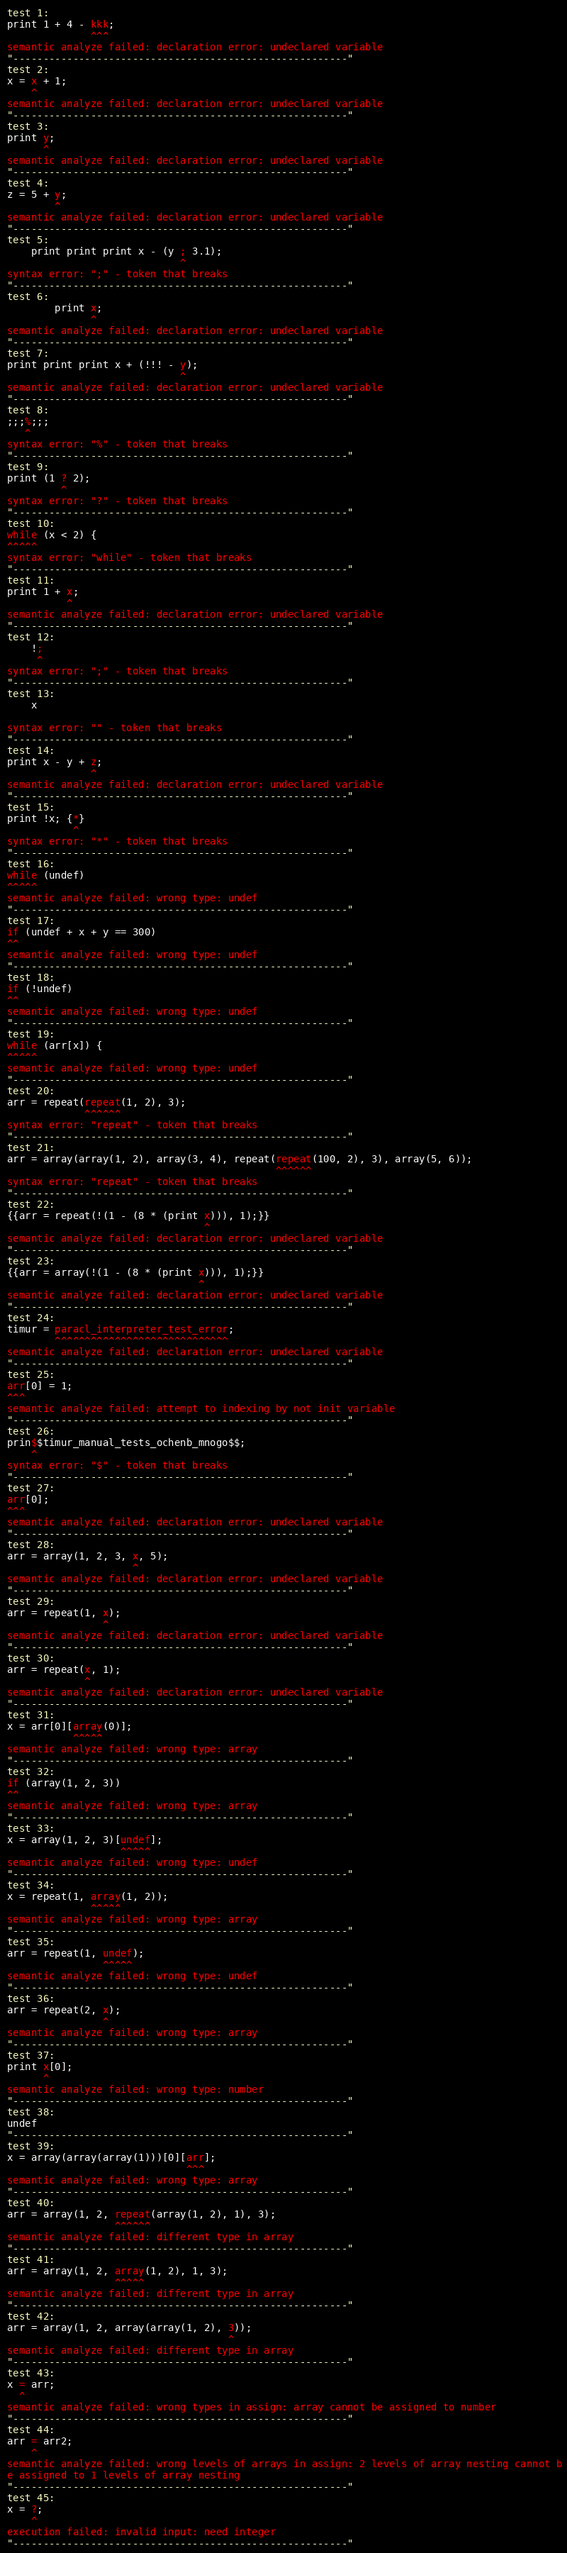
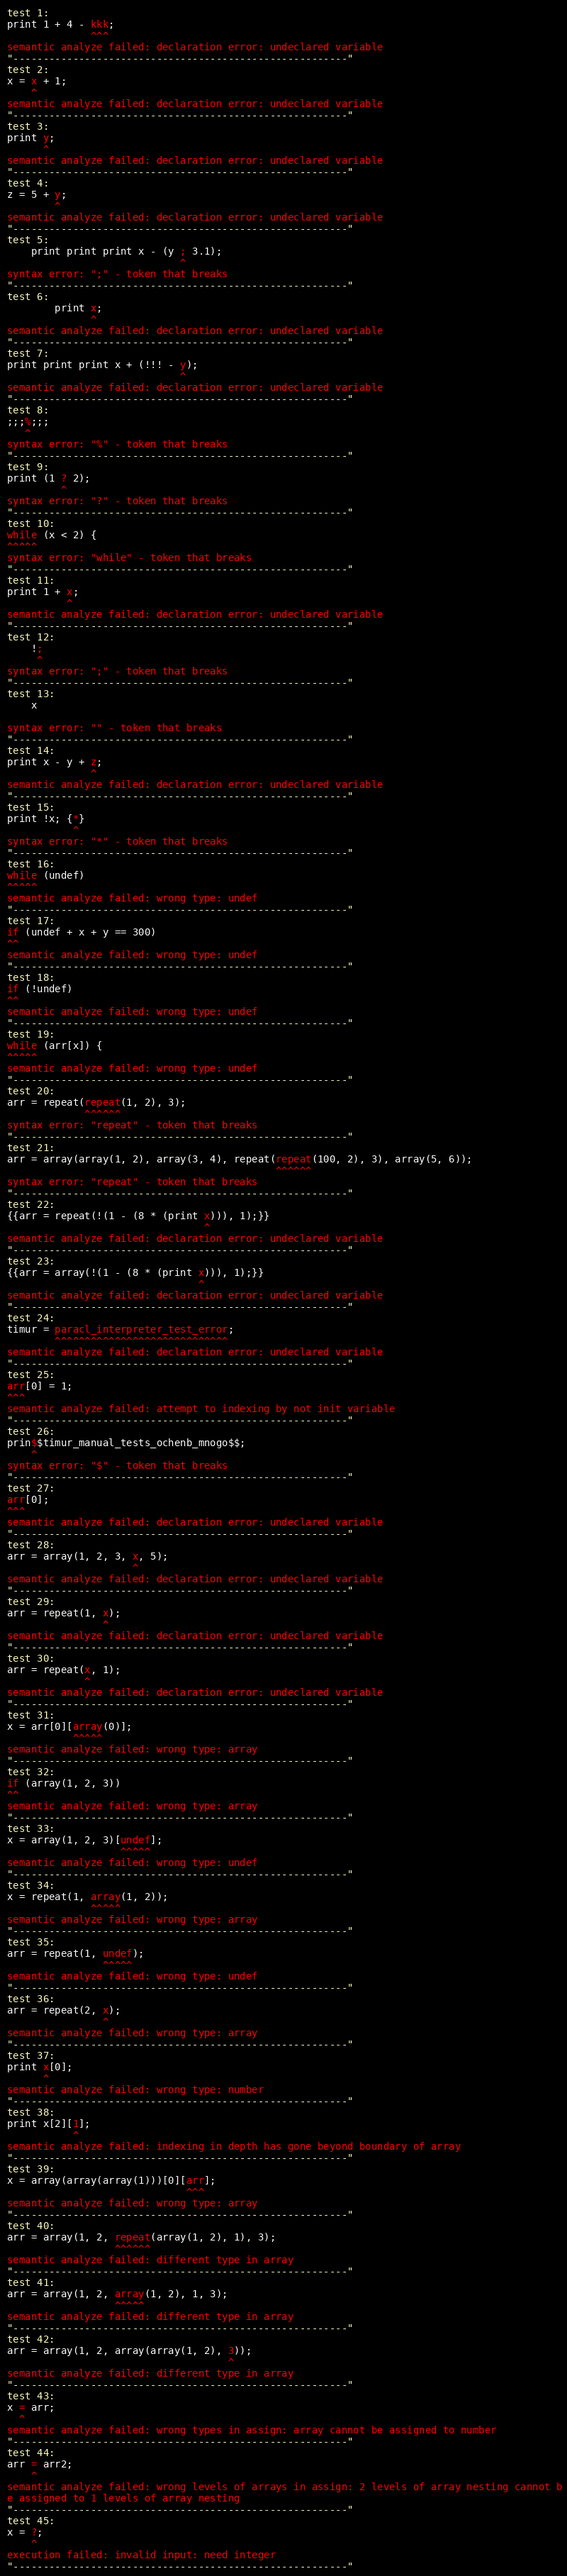
add check depth indexing

diff --git a/include/node.hpp b/include/node.hpp
@@ -665,10 +665,19 @@ namespace node {
             indexes.pop_back();
             value_t& result = values_[index];
 
-            if (!indexes.empty() && result.type == node_type_e::ARRAY)
-                return static_cast<node_array_t*>(result.value)->shift_analyze_(indexes, params);
-            else
+            if (result.type == node_type_e::ARRAY) {
+                if (!indexes.empty())
+                    return static_cast<node_array_t*>(result.value)->shift_analyze_(indexes, params);
+                else
+                    return result;
+            } else {
+                if (!indexes.empty()) {
+                    throw error_analyze_t{indexes[0].value->loc(), params.program_str,
+                                          "indexing in depth has gone beyond boundary of array"};
+                }
+
                 return result;
+            }
         }
 
         value_t& shift_analyze_(std::vector<value_t>& indexes, analyze_params_t& params) {
@@ -710,6 +719,13 @@ namespace node {
             return shift_(all_indexes, params);
         }
 
+        value_t analyze(analyze_params_t& params) override {
+            if (!is_inited_)
+                init_analyze(params);
+
+            return {node_type_e::ARRAY, this};
+        }
+
         value_t& shift_analyze(const std::vector<value_t>& ext_indexes, analyze_params_t& params) {
             std::vector<value_t> all_indexes = ext_indexes;
             all_indexes.insert(all_indexes.end(), indexes_.begin(), indexes_.end());
@@ -739,13 +755,6 @@ namespace node {
             is_inited_ = false;
             values_.clear();
             indexes_.clear();
-        }
-
-        value_t analyze(analyze_params_t& params) override {
-            if (!is_inited_)
-                init_analyze(params);
-
-            return {node_type_e::ARRAY, this};
         }
 
         node_expression_t* copy(buffer_t& buf, node_scope_t* parent) const override {
